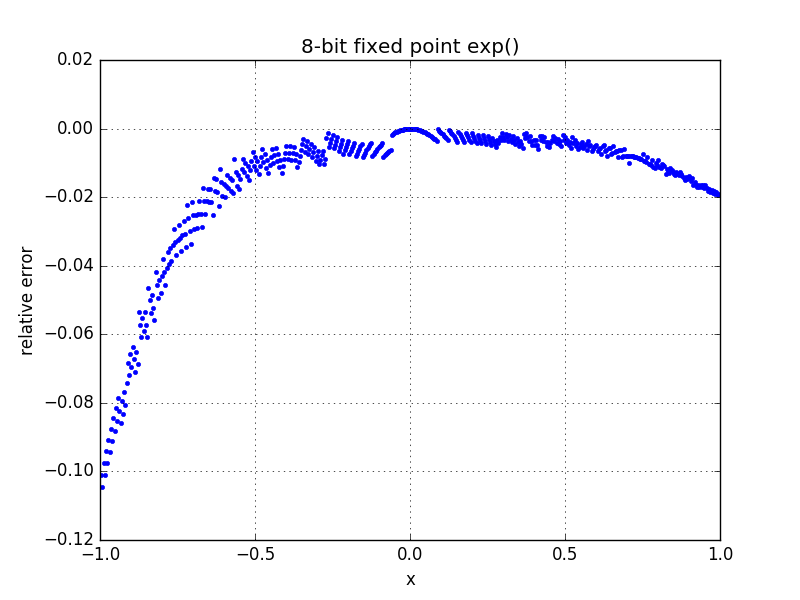
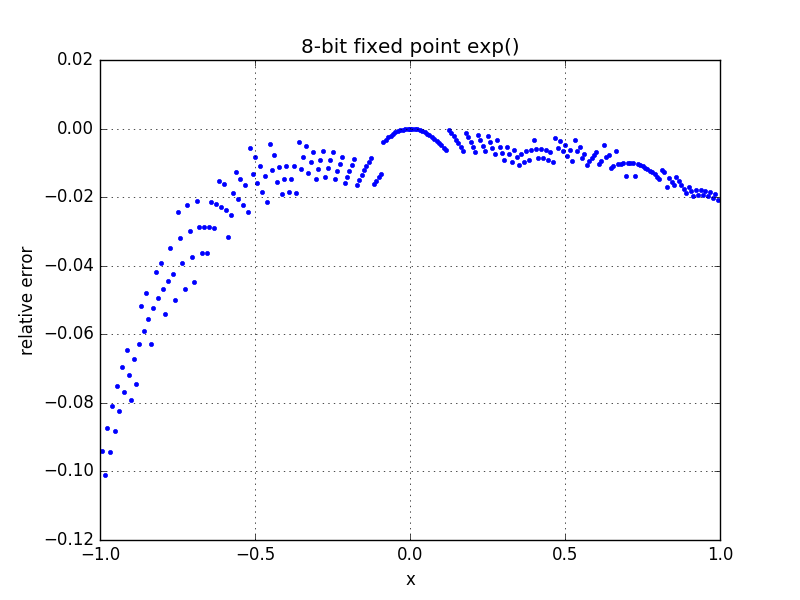
Updated README to include current outputs for 4 and 8 bits.

Changed region(s): [[0.1562, 0.21, 0.5, 0.63], [0.5312, 0.21, 0.9062, 0.33], [0.125, 0.66, 0.1562, 0.78]]

diff --git a/exp/README.md b/exp/README.md
@@ -24,4 +24,10 @@ give errors about being out of range for the fixed-point representation.)
 When you run the `build.sh` script, it will attempt to synthesize the generated
 Verilog designs for the Lattice ICEStick.
 
+# 4-bit results
+![Output for 4-bit fixed exp](4-bit-output.png)
+![Relative error for 4-bit fixed exp](4-bit-relative-error.png)
+
+# 8-bit results
+![Output for 8-bit fixed exp](8-bit-output.png)
 ![Relative error for 8-bit fixed exp](8-bit-relative-error.png)
